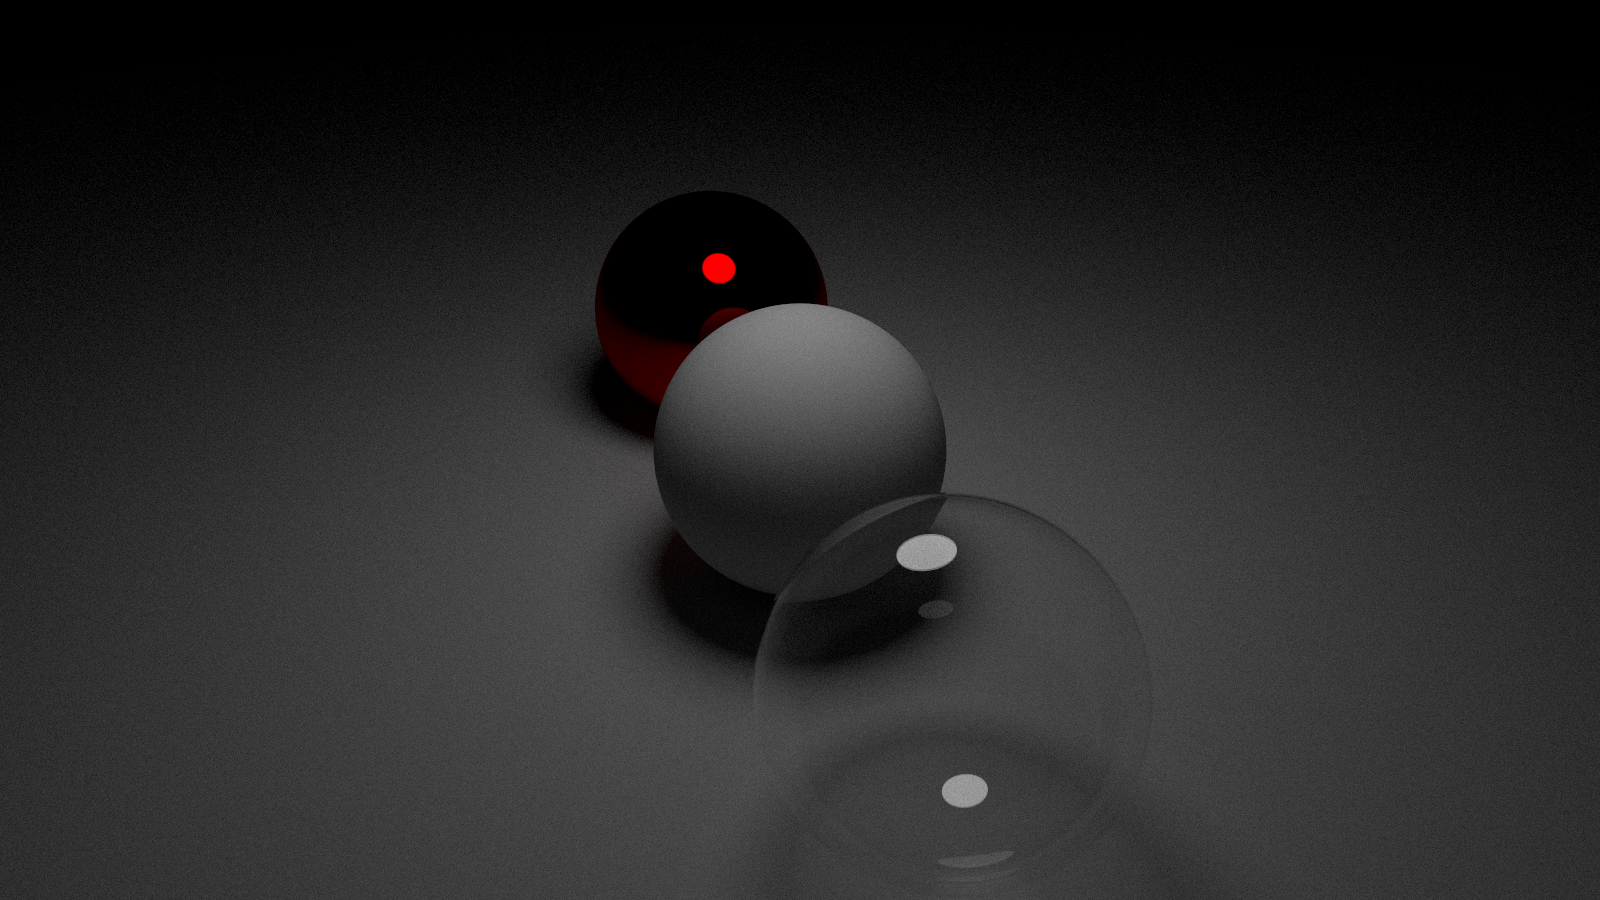
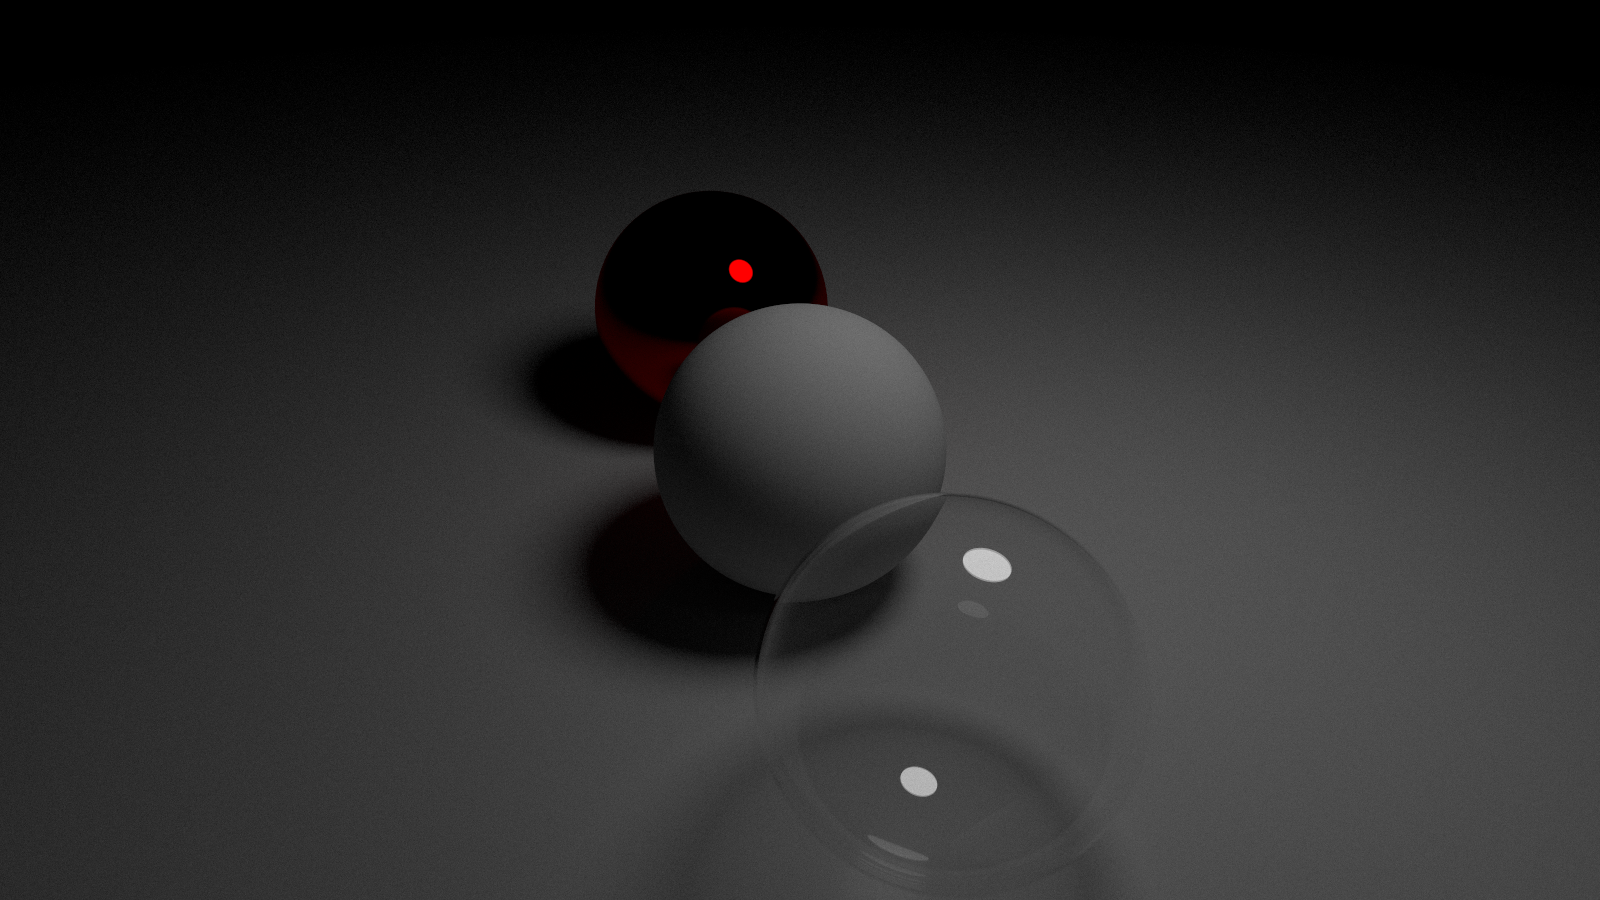
update sample with 8192

diff --git a/src/util/math/quaternion.rs b/src/util/math/quaternion.rs
@@ -59,13 +59,12 @@ impl Quaternion {
 impl std::ops::Mul for Quaternion {
   type Output = Quaternion;
   fn mul(self, rhs: Self) -> Self::Output {
-    let m = Self {
+    Self {
       x: (self.x * rhs.w) + (self.y * rhs.z) - (self.z * rhs.y) + (self.w * rhs.x),
       y: -(self.x * rhs.z) + (self.y * rhs.w) + (self.z * rhs.x) + (self.w * rhs.y),
       z: (self.x * rhs.y) - (self.y * rhs.x) + (self.z * rhs.w) + (self.w * rhs.z),
       w: -(self.x * rhs.x) - (self.y * rhs.y) - (self.z * rhs.z) + (self.w * rhs.w),
-    };
-    m.normalized()
+    }
   }
 }
 
@@ -86,7 +85,7 @@ mod test {
     let v = Vec3::new(1.0, 0.0, 0.0);
     let q = Quaternion::from_angle_axis(90.0, Vec3::new(0.0, 0.0, 1.0));
     let r = q.rotate(v);
-    let r = q.inverse().rotate(r);
+    let r = q.inverse().rotate(r).normalized(); // FIXME: Float....
     assert_eq!(Vec3::new(1.0, 0.0, 0.0), r);
   }
 }

diff --git a/src/scene/lighted_spheres.rs b/src/scene/lighted_spheres.rs
@@ -5,7 +5,6 @@ use palette::LinSrgb;
 use crate::render::Scene;
 use crate::render::entity;
 use crate::render::material;
-use crate::render::sky_box;
 use crate::util::img::Image;
 use crate::util::math::Vec3;
 
@@ -39,9 +38,9 @@ pub fn lighted_spheres(canvas: &Image) -> Scene {
 
   // light
   scene.push(entity::Sphere::new(
-    Vec3::new(0.5, 2.0, -0.5),
+    Vec3::new(0.5, 2.5, -1.0),
     0.5,
-    Arc::new(material::DiffuseLight::new(LinSrgb::new(4.0, 4.0, 4.0))),
+    Arc::new(material::DiffuseLight::new(LinSrgb::new(6.0, 6.0, 6.0))),
   ));
 
   let camera = scene.camera();
